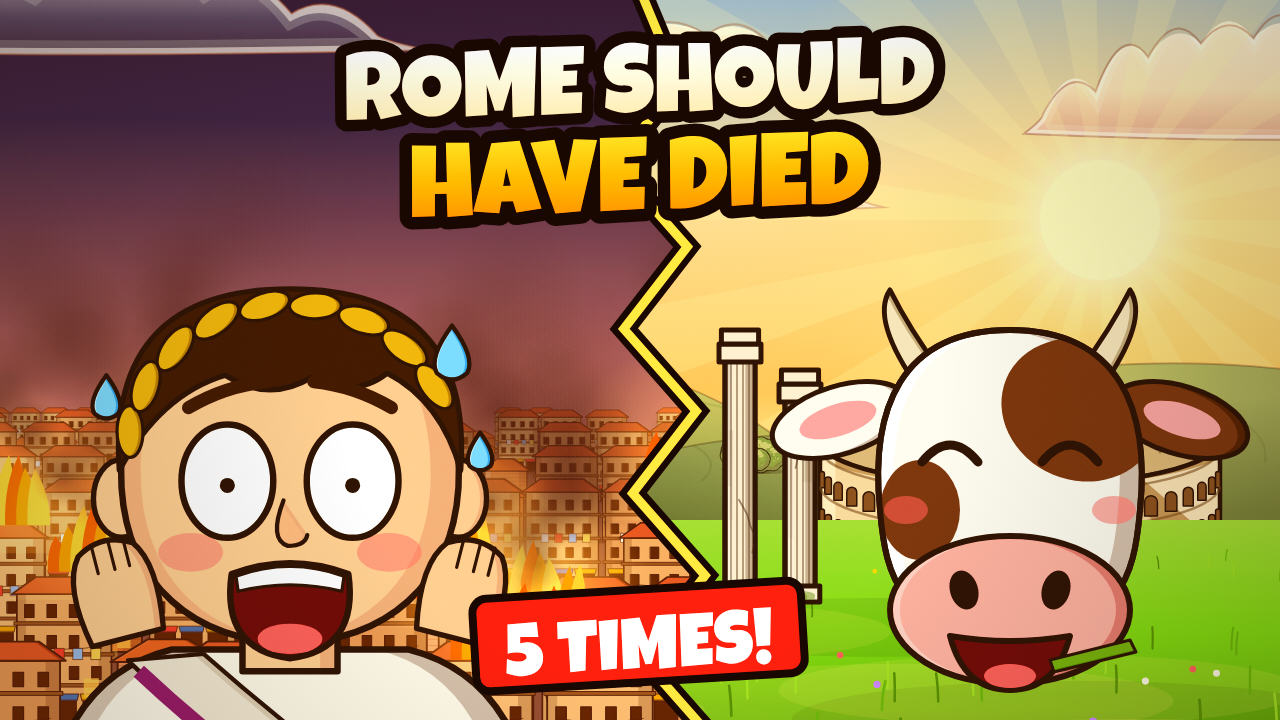
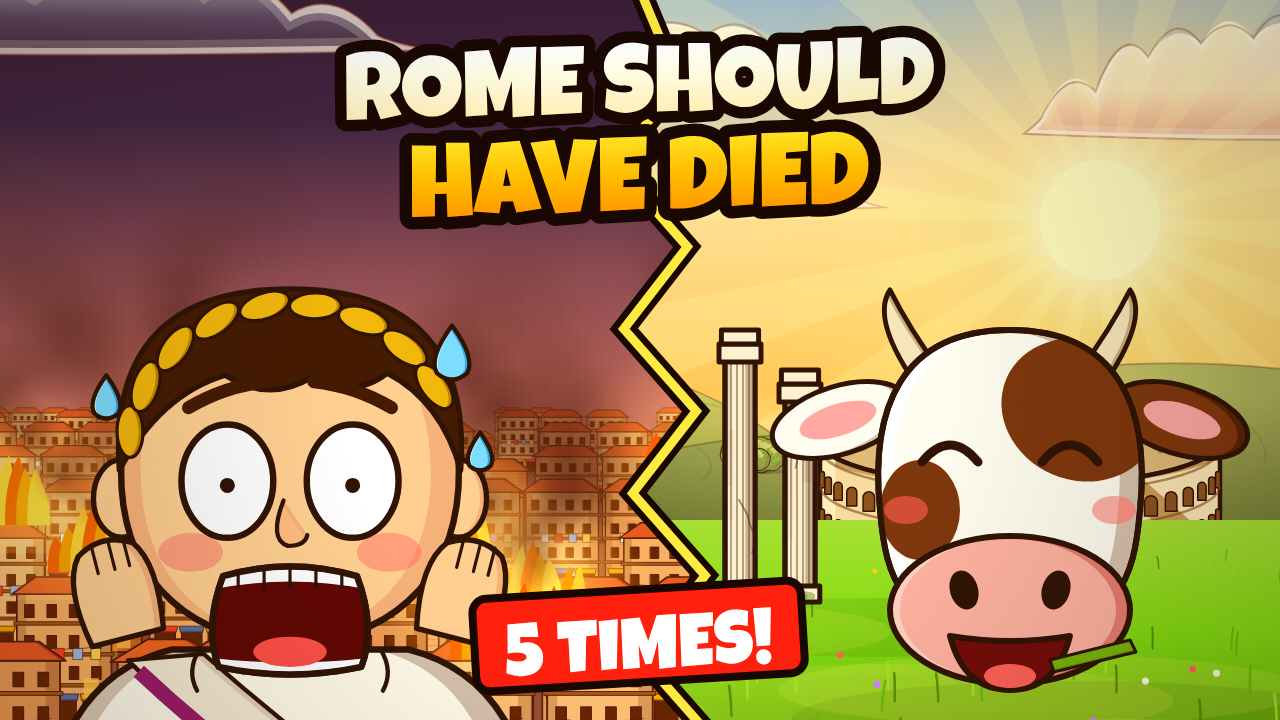
Rome thumbnails: three surprise/panic designs; screaming mouth, hands-on-head, shock lines
Claude-Session: https://claude.ai/code/session_011U7RCHA61NQ9PLDXwGdMry

Changed region(s): [[0.125, 0.7639, 0.3125, 0.9472]]

diff --git a/houdini/rome/js/thumb.js b/houdini/rome/js/thumb.js
@@ -19,30 +19,38 @@
     const hd = c => { c.moveTo(0, -200); c.bezierCurveTo(130, -200, 160, -110, 156, -30); c.bezierCurveTo(150, 60, 90, 112, 0, 114); c.bezierCurveTo(-90, 112, -150, 60, -156, -30); c.bezierCurveTo(-160, -110, -130, -200, 0, -200); c.closePath(); };
     for (const d of [-1, 1]) cel(ctx, c => c.ellipse(d * 156, -20, 26, 36, 0, 0, 7), skin, { shade: sh, dx: 6, dy: 0, lw: 5 });
     if (o.hairStyle === 'long') cel(ctx, c => { c.moveTo(-160, -60); c.quadraticCurveTo(-190, 80, -150, 160); c.lineTo(150, 160); c.quadraticCurveTo(190, 80, 160, -60); c.closePath(); }, hair, { shade: mix(hair, '#000', .3), dx: 14, dy: 0, lw: 5 });
+    if (o.hairStyle === 'bun') cel(ctx, c => c.ellipse(0, -214, 64, 50, 0, 0, 7), hair, { shade: mix(hair, '#000', .3), dx: 10, dy: 0, lw: 5 });
     cel(ctx, hd, skin, { shade: sh, light: mix(skin, '#fff', .25), dx: 26, dy: 0, lw });
     // hair
     if (o.hairStyle === 'curly') ink(ctx, hair, c => { c.moveTo(-158, -50); for (let i = 0; i <= 10; i++) { const a = Math.PI + i * Math.PI / 10, r = 172 + (i % 2) * 22; c.lineTo(Math.cos(a) * r, -70 + Math.sin(a) * r * .82); } c.lineTo(158, -50); c.quadraticCurveTo(120, -150, 0, -150); c.quadraticCurveTo(-120, -150, -158, -50); c.closePath(); }, 5);
     else if (o.hairStyle === 'bald') ink(ctx, hair, c => { c.moveTo(-156, -40); c.quadraticCurveTo(-160, -100, -130, -120); c.quadraticCurveTo(-120, -80, -128, -36); c.closePath(); c.moveTo(156, -40); c.quadraticCurveTo(160, -100, 130, -120); c.quadraticCurveTo(120, -80, 128, -36); c.closePath(); }, 4);
     else ink(ctx, hair, c => { c.moveTo(-158, -46); c.quadraticCurveTo(-170, -214, 0, -214); c.quadraticCurveTo(170, -214, 158, -46); c.quadraticCurveTo(140, -110, 90, -136); c.quadraticCurveTo(60, -112, 20, -132); c.quadraticCurveTo(-20, -108, -60, -134); c.quadraticCurveTo(-120, -116, -158, -46); c.closePath(); }, 5);
+    if (o.hairStyle === 'bun' && false) cel(ctx, c => c.ellipse(0, -232, 60, 46, 0, 0, 7), hair, { shade: mix(hair, '#000', .3), dx: 10, dy: 0, lw: 5 });
     if (o.cap) { cel(ctx, c => { c.moveTo(-170, -70); c.quadraticCurveTo(-170, -236, 0, -236); c.quadraticCurveTo(170, -236, 170, -70); c.closePath(); }, o.cap, { shade: mix(o.cap, '#000', .3), light: mix(o.cap, '#fff', .3), dx: 26, dy: 0, lw }); ink(ctx, mix(o.cap, '#000', .15), c => c.rect(-180, -84, 360, 26), 5); if (o.plume) cel(ctx, c => { c.moveTo(-40, -230); c.quadraticCurveTo(0, -330, 60, -300); c.quadraticCurveTo(40, -250, 40, -228); c.closePath(); }, o.plume, { shade: mix(o.plume, '#000', .3), dx: 10, dy: 0, lw: 4 }); }
     if (o.wreath) for (let i = 0; i < 9; i++) { const a = Math.PI * (1.05 + i * .1); cel(ctx, c => c.ellipse(Math.cos(a) * 150, -60 + Math.sin(a) * 140, 24, 12, a + 1.4, 0, 7), '#d8b040', { shade: '#a88020', dx: 4, dy: 0, lw: 3 }); }
     // blush, brows, eyes, nose, mouth, beard
     const f = o.face || 'surprise'; ctx.fillStyle = 'rgba(240,110,110,.45)'; for (const d of [-1, 1]) { ctx.beginPath(); ctx.ellipse(d * 92, 30, 30, 18, 0, 0, 7); ctx.fill(); }
     const lk = o.look || 0;
+    if (o.fem && f !== 'joy') { ctx.strokeStyle = INK; ctx.lineWidth = 5; ctx.lineCap = 'round'; for (const d of [-1, 1]) for (const k of [0, 1, 2]) { const a = -Math.PI / 2 + d * (.5 + k * .35); ctx.beginPath(); ctx.moveTo(d * 58 + Math.cos(a) * 40, -36 + Math.sin(a) * 50); ctx.lineTo(d * 58 + Math.cos(a) * 56, -36 + Math.sin(a) * 66); ctx.stroke(); } }
     if (f === 'joy') { ctx.strokeStyle = INK; ctx.lineWidth = 9; ctx.lineCap = 'round'; for (const d of [-1, 1]) { ctx.beginPath(); ctx.moveTo(d * 58 - 30, -26); ctx.quadraticCurveTo(d * 58, -64, d * 58 + 30, -26); ctx.stroke(); } }
     else { const big = f === 'panic' ? 1.25 : f === 'surprise' ? 1.15 : 1, pr = f === 'panic' ? 7 : f === 'surprise' ? 12 : 15; for (const d of [-1, 1]) { ink(ctx, '#fffdf6', c => c.ellipse(d * 58, -36, 34 * big, 42 * big, 0, 0, 7), 6); ctx.fillStyle = INK; ctx.beginPath(); ctx.arc(d * 58 + lk, -32, pr, 0, 7); ctx.fill(); if (pr > 9) { ctx.fillStyle = '#fff'; ctx.beginPath(); ctx.arc(d * 58 + lk + 4, -38, pr * .3, 0, 7); ctx.fill(); } if (f === 'smug') ink(ctx, skin, c => { c.moveTo(d * 58 - 38, -82); c.lineTo(d * 58 + 38, -82); c.lineTo(d * 58 + 38, -40); c.lineTo(d * 58 - 38, -40); c.closePath(); }, 0); if (f === 'smug') { ctx.strokeStyle = INK; ctx.lineWidth = 6; ctx.beginPath(); ctx.moveTo(d * 58 - 36, -40); ctx.lineTo(d * 58 + 36, -40); ctx.stroke(); } } }
     ctx.strokeStyle = o.kind === 'monk' ? '#3a2416' : hair; ctx.lineWidth = 12; ctx.lineCap = 'round'; for (const d of [-1, 1]) { ctx.beginPath(); if (f === 'panic') { ctx.moveTo(d * 22, -128); ctx.quadraticCurveTo(d * 60, -124, d * 94, -104); } else if (f === 'surprise' || f === 'joy') { ctx.moveTo(d * 30, -116); ctx.quadraticCurveTo(d * 60, -138, d * 92, -114); } else if (f === 'grin' || f === 'angry') { ctx.moveTo(d * 24, -78); ctx.lineTo(d * 92, -104); } else { ctx.moveTo(d * 30, -96); ctx.lineTo(d * 92, -100); } ctx.stroke(); }
     cel(ctx, c => { c.moveTo(-6, -18); c.quadraticCurveTo(-20, 18, -2, 24); c.quadraticCurveTo(14, 24, 16, 14); }, mix(skin, '#c88a6a', .3), { shade: sh, dx: 4, dy: 0, lw: 4 });
     if (o.beard) cel(ctx, c => { c.moveTo(-150, -10); c.quadraticCurveTo(-150, 130, 0, 150); c.quadraticCurveTo(150, 130, 150, -10); c.quadraticCurveTo(110, 60, 60, 52); c.quadraticCurveTo(0, 40, -60, 52); c.quadraticCurveTo(-110, 60, -150, -10); c.closePath(); }, o.beardCol || hair, { shade: mix(o.beardCol || hair, '#000', .3), light: mix(o.beardCol || hair, '#fff', .15), dx: 16, dy: 0, lw: 5 });
-    if (f === 'panic') { ink(ctx, '#5a1a1a', c => { c.moveTo(-54, 50); c.quadraticCurveTo(0, 30, 54, 50); c.quadraticCurveTo(64, 120, 0, 128); c.quadraticCurveTo(-64, 120, -54, 50); c.closePath(); }, 6); ink(ctx, '#fff', c => { c.moveTo(-50, 52); c.quadraticCurveTo(0, 34, 50, 52); c.lineTo(48, 66); c.quadraticCurveTo(0, 54, -48, 66); c.closePath(); }, 3); ink(ctx, '#e86a6a', c => c.ellipse(0, 110, 30, 14, 0, 0, 7), 0); }
+    if (f === 'panic') { // a screaming mouth: corners dragged down, both rows of teeth showing, a trembling outline
+      const m = c => { c.moveTo(-62, 52); c.quadraticCurveTo(0, 34, 62, 52); c.quadraticCurveTo(80, 100, 66, 136); c.quadraticCurveTo(0, 150, -66, 136); c.quadraticCurveTo(-80, 100, -62, 52); c.closePath(); };
+      ink(ctx, '#4a1414', m, 6); ctx.save(); m(ctx); ctx.clip(); ctx.fillStyle = '#fff'; ctx.beginPath(); ctx.moveTo(-70, 40); ctx.quadraticCurveTo(0, 26, 70, 40); ctx.lineTo(70, 64); ctx.quadraticCurveTo(0, 50, -70, 64); ctx.closePath(); ctx.fill(); ctx.beginPath(); ctx.moveTo(-70, 150); ctx.lineTo(70, 150); ctx.lineTo(70, 128); ctx.quadraticCurveTo(0, 136, -70, 128); ctx.closePath(); ctx.fill(); ctx.fillStyle = '#d85a5a'; ctx.beginPath(); ctx.ellipse(0, 122, 34, 14, 0, 0, 7); ctx.fill(); ctx.strokeStyle = INK; ctx.lineWidth = 3; for (let i = -2; i <= 2; i++) { ctx.beginPath(); ctx.moveTo(i * 24, 44); ctx.lineTo(i * 24, 62); ctx.stroke(); } ctx.restore(); ink(ctx, null, m, 6);
+      ctx.strokeStyle = INK; ctx.lineWidth = 4; for (const d of [-1, 1]) { ctx.beginPath(); ctx.moveTo(d * 84, 120); ctx.quadraticCurveTo(d * 96, 140, d * 86, 158); ctx.stroke(); } }
     else if (f === 'surprise') ink(ctx, '#5a1a1a', c => c.ellipse(0, 70, 26, 34, 0, 0, 7), 6);
     else if (f === 'joy') { ink(ctx, '#5a1a1a', c => { c.moveTo(-70, 44); c.quadraticCurveTo(0, 56, 70, 44); c.quadraticCurveTo(54, 124, 0, 124); c.quadraticCurveTo(-54, 124, -70, 44); c.closePath(); }, 6); ink(ctx, '#fff', c => { c.moveTo(-66, 46); c.quadraticCurveTo(0, 58, 66, 46); c.lineTo(60, 62); c.quadraticCurveTo(0, 72, -60, 62); c.closePath(); }, 3); ink(ctx, '#e86a6a', c => c.ellipse(0, 108, 32, 14, 0, 0, 7), 0); }
     else if (f === 'grin' || f === 'smug') { ink(ctx, '#fff', c => { c.moveTo(-60, 50); c.quadraticCurveTo(0, 60, 70, 36); c.quadraticCurveTo(50, 96, -10, 90); c.quadraticCurveTo(-50, 86, -60, 50); c.closePath(); }, 6); ctx.strokeStyle = INK; ctx.lineWidth = 3; for (let i = -2; i <= 2; i++) { ctx.beginPath(); ctx.moveTo(i * 22, 54); ctx.lineTo(i * 22 + 2, 86); ctx.stroke(); } }
     // sweat drops of panic, sparkles of joy
     if (f === 'panic' || f === 'surprise') for (const [dx, dy, r] of [[150, -150, 1], [-170, -110, .8], [176, -60, .7]].slice(0, f === 'panic' ? 3 : 1)) cel(ctx, c => { c.moveTo(dx, dy - 30 * r); c.quadraticCurveTo(dx + 22 * r, dy, dx + 14 * r, dy + 14 * r); c.quadraticCurveTo(dx, dy + 26 * r, dx - 14 * r, dy + 14 * r); c.quadraticCurveTo(dx - 22 * r, dy, dx, dy - 30 * r); c.closePath(); }, '#8ad0f4', { shade: '#4aa0d0', light: '#e0f6ff', dx: 4, dy: 0, lw: 4 });
+    if (o.shock) { ctx.strokeStyle = INK; ctx.lineWidth = 8; ctx.lineCap = 'round'; for (let i = 0; i < 7; i++) { const a = -Math.PI * (.12 + i * .127); ctx.beginPath(); ctx.moveTo(Math.cos(a) * 250, -40 + Math.sin(a) * 250); ctx.lineTo(Math.cos(a) * 300, -40 + Math.sin(a) * 300); ctx.stroke(); } }
     // hands
     const hand = (hx, hy, rot, thumb) => { ctx.save(); ctx.translate(hx, hy); ctx.rotate(rot); cel(ctx, c => { c.moveTo(-34, 40); c.quadraticCurveTo(-46, -20, -26, -44); c.quadraticCurveTo(0, -60, 26, -44); c.quadraticCurveTo(44, -20, 34, 40); c.closePath(); }, skin, { shade: sh, dx: 8, dy: 0, lw: 5 }); ctx.strokeStyle = INK; ctx.lineWidth = 3; for (const fx of [-12, 4, 18]) { ctx.beginPath(); ctx.moveTo(fx, -50); ctx.lineTo(fx, -24); ctx.stroke(); } if (thumb) cel(ctx, c => { c.moveTo(-30, -20); c.quadraticCurveTo(-60, -80, -36, -96); c.quadraticCurveTo(-16, -90, -12, -30); c.closePath(); }, skin, { shade: sh, dx: 4, dy: 0, lw: 5 }); ctx.restore(); };
     if (o.hands === 'cheeks') { hand(-160, 70, -.25); hand(160, 70, .25); }
+    else if (o.hands === 'head') { for (const d of [-1, 1]) { cel(ctx, c => { c.moveTo(d * 190, 230); c.quadraticCurveTo(d * 290, 60, d * 214, -110); c.lineTo(d * 170, -96); c.quadraticCurveTo(d * 226, 40, d * 150, 190); c.closePath(); }, cloth, { shade: mix(cloth, '#5a4030', .3), dx: 10, dy: 0, lw: 5 }); hand(d * 158, -128, d * -1.25); } }
     else if (o.hands === 'up') { for (const d of [-1, 1]) { cel(ctx, c => { c.moveTo(d * 190, 220); c.quadraticCurveTo(d * 260, 60, d * 250, -60); c.lineTo(d * 200, -60); c.quadraticCurveTo(d * 200, 60, d * 150, 180); c.closePath(); }, cloth, { shade: mix(cloth, '#5a4030', .3), dx: 10, dy: 0, lw: 5 }); hand(d * 226, -100, d * .2); } }
     else if (o.hands === 'thumb') { cel(ctx, c => { c.moveTo(150, 260); c.quadraticCurveTo(250, 200, 250, 120); c.lineTo(200, 110); c.quadraticCurveTo(200, 180, 120, 210); c.closePath(); }, cloth, { shade: mix(cloth, '#5a4030', .3), dx: 10, dy: 0, lw: 5 }); hand(226, 70, 0, true); }
     ctx.restore(); }
@@ -97,5 +105,32 @@
     title(ctx, 'THEY CUT', 640, 120, 104, ['#ffffff', '#e0f0ff'], { rot: -.03 }); title(ctx, 'THE WATER', 640, 222, 112, ['#9ae0ff', '#2a98e8'], { rot: -.03 }); stamp(ctx, 'AD 537', 640, 670, 60, .05);
     C.finish(ctx, t, 'storm', { leak: false, vig: .25 }); }
 
-  G.drawThumb = (ctx, v) => { ctx.clearRect(0, 0, W, H); ({ 1: v1, 2: v2, 3: v3 })[v](ctx); };
+  const MATRON = { kind: 'tunic', cloth: '#c86a5a', skin: '#e8b48c', hair: '#2a1a14', hairStyle: 'bun', fem: true };
+  const MONK = { kind: 'tunic', cloth: '#76503a', skin: '#f2c9a2', hair: '#3a2416', hairStyle: 'bald', beard: true, beardCol: '#5a3a24' };
+  const exclaim = (ctx, x, y, size, rot, col = '#ffe060') => title(ctx, '!', x, y, size, [col, '#ff8a20'], { rot });
+  // 4. "BARBARIANS INSIDE!" AD 410: the gate bursts open at night, a panicked senator and a shocked matron in the foreground
+  function v4(ctx) { K.fireSky(ctx, t, .9); C.mounds(ctx, { y: 440, n: 5, seed: 31, col: '#3a3038', far: .3, sunX: 640, t, w: 560, h: 80, copses: 2, haze: '#a85030' });
+    ctx.fillStyle = '#4a3a3a'; ctx.fillRect(0, 560, 1280, 200); K.aurelianWall(ctx, 560, -300, 1600, 640, 1.1, t, { open: 1, brick: '#8a5448' });
+    ctx.save(); ctx.beginPath(); ctx.rect(574, 330, 132, 230); ctx.clip(); ctx.fillStyle = '#ff9a40'; ctx.fillRect(560, 320, 160, 260); for (let i = 0; i < 4; i++) { ctx.fillStyle = '#2a1414'; ctx.beginPath(); ctx.arc(600 + i * 30, 520, 18, Math.PI, 0); ctx.fill(); ctx.fillRect(582 + i * 30, 520, 36, 40); ctx.beginPath(); ctx.arc(600 + i * 30, 492, 13, 0, 7); ctx.fill(); ctx.strokeStyle = '#2a1414'; ctx.lineWidth = 5; ctx.beginPath(); ctx.moveTo(612 + i * 30, 520); ctx.lineTo(620 + i * 30, 420); ctx.stroke(); } ctx.restore();
+    rays(ctx, 640, 450, '#ffb060', .22); const R = C.rng(9); for (let i = 0; i < 5; i++) K.flames(ctx, 80 + i * 280, 600, .9, t + i, { smoke: true });
+    bust(ctx, 250, 560, 1.06, Object.assign({}, SENATOR, { face: 'panic', hands: 'head' })); bust(ctx, 1030, 570, 1.0, Object.assign({}, MATRON, { face: 'surprise', hands: 'cheeks', shock: true, look: -16 }));
+    title(ctx, 'BARBARIANS', 640, 112, 104, ['#ffffff', '#f4e4c0'], { rot: -.02 }); title(ctx, 'INSIDE ROME!', 640, 214, 96, ['#ffe060', '#ff8a20'], { rot: -.02 }); stamp(ctx, 'AD 410', 640, 676, 58, .04);
+    C.finish(ctx, t, 'blood', { leak: false, vig: .25 }); }
+  // 5. "COWS IN THE FORUM?!" — a shocked senator and a stunned monk find cattle grazing among the ruins of the Forum
+  function v5(ctx) { C.sky(ctx, 'golden', t, { horizon: 430, sun: [640, 260], sunR: 60, seed: 41 }); rays(ctx, 640, 300, '#fff4c0', .22); C.mounds(ctx, { y: 440, n: 5, seed: 42, col: '#8aa070', far: .4, sunX: 640, t, w: 560, h: 90, copses: 2 });
+    K.colosseum(ctx, 640, 440, 200, 46, 110); C.meadow(ctx, 500, 800, t, { col: '#8acc44', n: 160, flowers: 40 }); for (const [x, h] of [[420, 230], [480, 190], [820, 240], [880, 210]]) P.column(ctx, x, 600, 30, h, { col: '#efe6d2' }); cel(ctx, c => c.rect(400, 360, 100, 22), '#efe6d2', { shade: '#c0b8a8', dx: 0, dy: 5, lw: 3 });
+    P.cow(ctx, 560, 680, .6, t, { graze: true, seed: 3 }); P.cow(ctx, 780, 700, .55, t, { seed: 6, flip: true, unimpressed: true }); P.goat(ctx, 660, 720, .5, t, { seed: 4 });
+    bust(ctx, 220, 570, 1.06, Object.assign({}, SENATOR, { face: 'surprise', hands: 'cheeks', shock: true, look: 16 })); bust(ctx, 1060, 570, 1.0, Object.assign({}, MONK, { face: 'panic', hands: 'head' }));
+    title(ctx, 'COWS IN', 640, 112, 108, ['#ffffff', '#f4e4c0'], { rot: -.03 }); title(ctx, 'THE FORUM?!', 640, 218, 104, ['#ffe060', '#ff8a20'], { rot: -.03 });
+    C.finish(ctx, t, 'golden', { leak: false, vig: .25 }); }
+  // 6. "THE WATER STOPPED" — a panicked legionary and a shocked matron over a bone-dry fountain, the broken aqueduct behind
+  function v6(ctx) { C.sky(ctx, 'storm', t, { horizon: 460, seed: 51, clouds: 4 }); rays(ctx, 640, 420, '#c8d8f0', .14); C.mounds(ctx, { y: 470, n: 5, seed: 52, col: '#7a8a68', far: .4, sunX: 900, t, w: 560, h: 90, copses: 2 });
+    K.aqueduct(ctx, -200, 480, 330, () => 720, t, { bay: 160 }); K.aqueduct(ctx, 800, 1500, 330, () => 720, t, { bay: 160 }); for (let i = 0; i < 7; i++) P.rock(ctx, 500 + i * 46, 700 - (i % 2) * 20, 30, '#d8bc8a');
+    ctx.save(); ctx.translate(640, 640); cel(ctx, c => c.rect(-170, -70, 340, 70), '#d8ccb0', { shade: '#a89a78', dx: 0, dy: 10, lw: 5 }); ctx.fillStyle = '#8a7a5a'; ctx.fillRect(-156, -64, 312, 14); for (let i = 0; i < 6; i++) { ctx.strokeStyle = '#5a4a3a'; ctx.lineWidth = 3; ctx.beginPath(); ctx.moveTo(-140 + i * 50, -60); ctx.lineTo(-130 + i * 50, -52); ctx.lineTo(-138 + i * 50, -46); ctx.stroke(); } cel(ctx, c => c.rect(-24, -240, 48, 170), '#d8ccb0', { shade: '#a89a78', dx: 8, dy: 0, lw: 5 }); cel(ctx, c => c.arc(0, -210, 26, 0, 7), '#c8b890', { shade: '#988a68', dx: 4, dy: 4, lw: 4 }); ctx.fillStyle = INK; ctx.beginPath(); ctx.arc(0, -202, 7, 0, 7); ctx.fill();
+      cel(ctx, c => { c.moveTo(6, -196); c.quadraticCurveTo(12, -180, 6, -172); c.quadraticCurveTo(0, -180, 6, -196); c.closePath(); }, '#8ad0f4', { dx: 2, dy: 0, lw: 3 }); ctx.restore();
+    bust(ctx, 240, 570, 1.06, Object.assign({}, LEGION, { face: 'panic', hands: 'head' })); bust(ctx, 1040, 570, 1.0, Object.assign({}, MATRON, { face: 'surprise', hands: 'cheeks', shock: true, look: -16, hair: '#5a3a24', cloth: '#5a8aa8' }));
+    title(ctx, 'THE WATER', 640, 112, 108, ['#ffffff', '#e0f0ff'], { rot: -.03 }); title(ctx, 'STOPPED!', 640, 220, 116, ['#9ae0ff', '#2a98e8'], { rot: -.03 }); stamp(ctx, 'AD 537', 640, 690, 50, .04);
+    C.finish(ctx, t, 'storm', { leak: false, vig: .25 }); }
+
+  G.drawThumb = (ctx, v) => { ctx.clearRect(0, 0, W, H); ({ 1: v1, 2: v2, 3: v3, 4: v4, 5: v5, 6: v6 })[v](ctx); };
 })(window);
